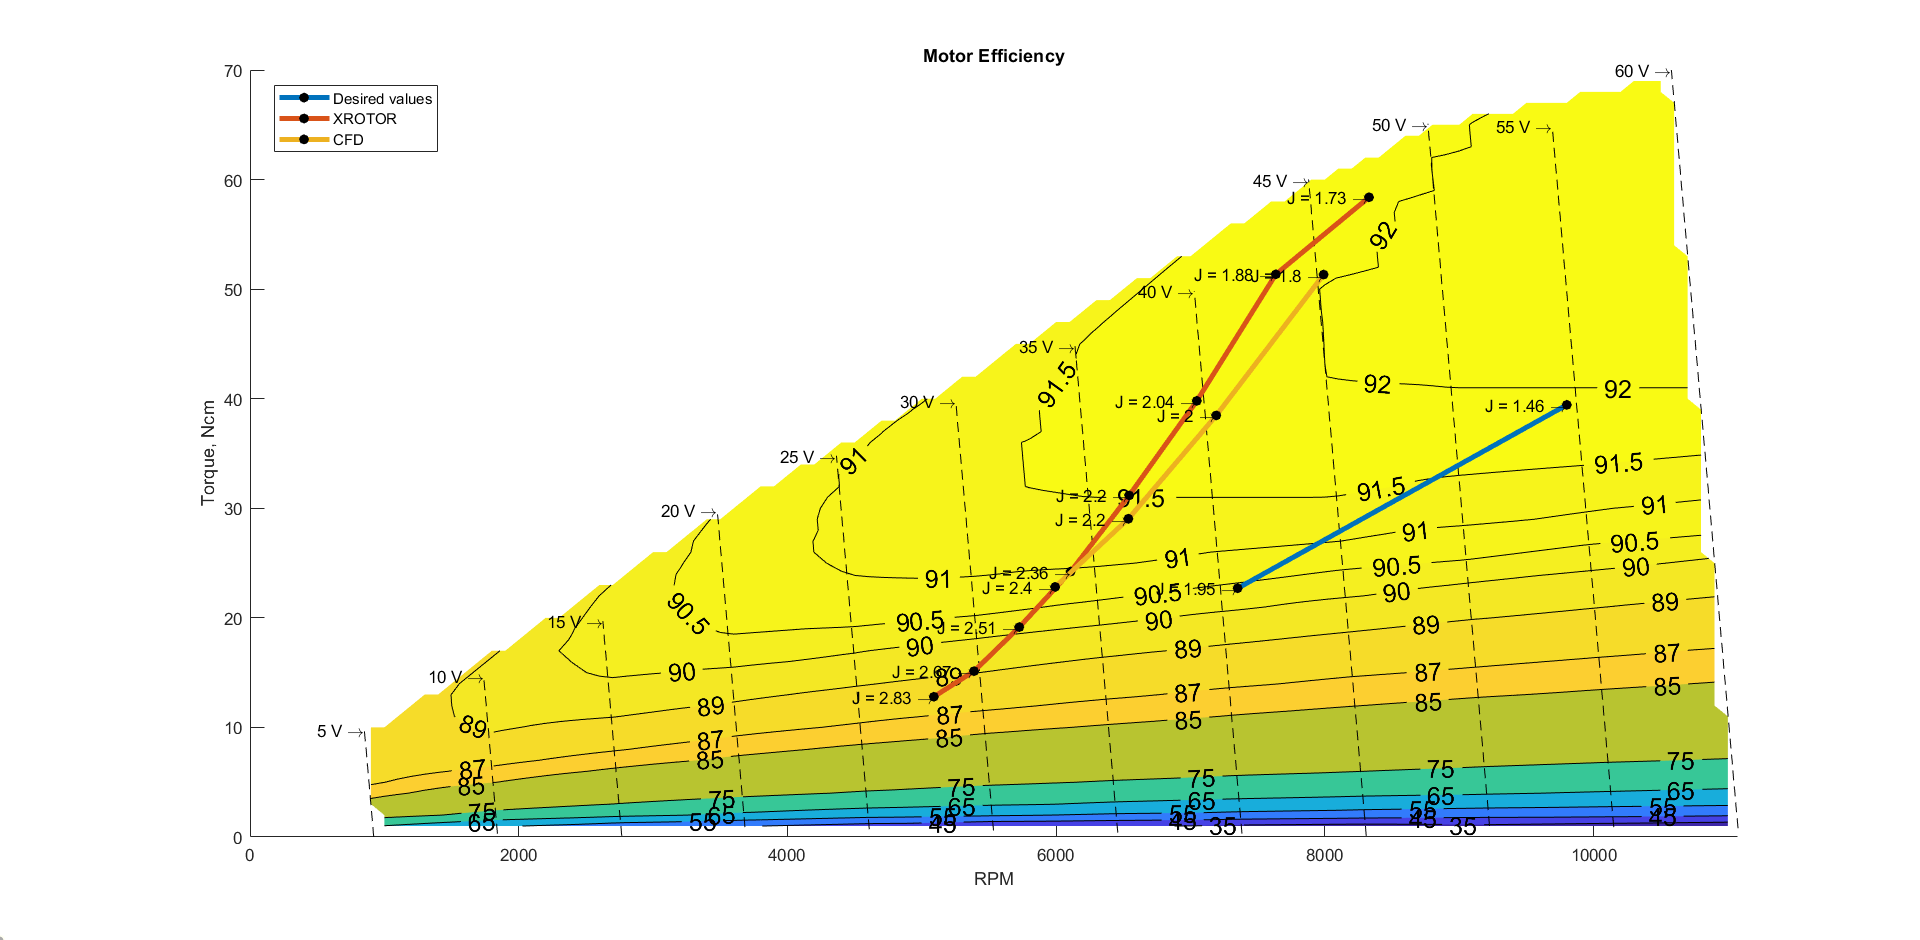
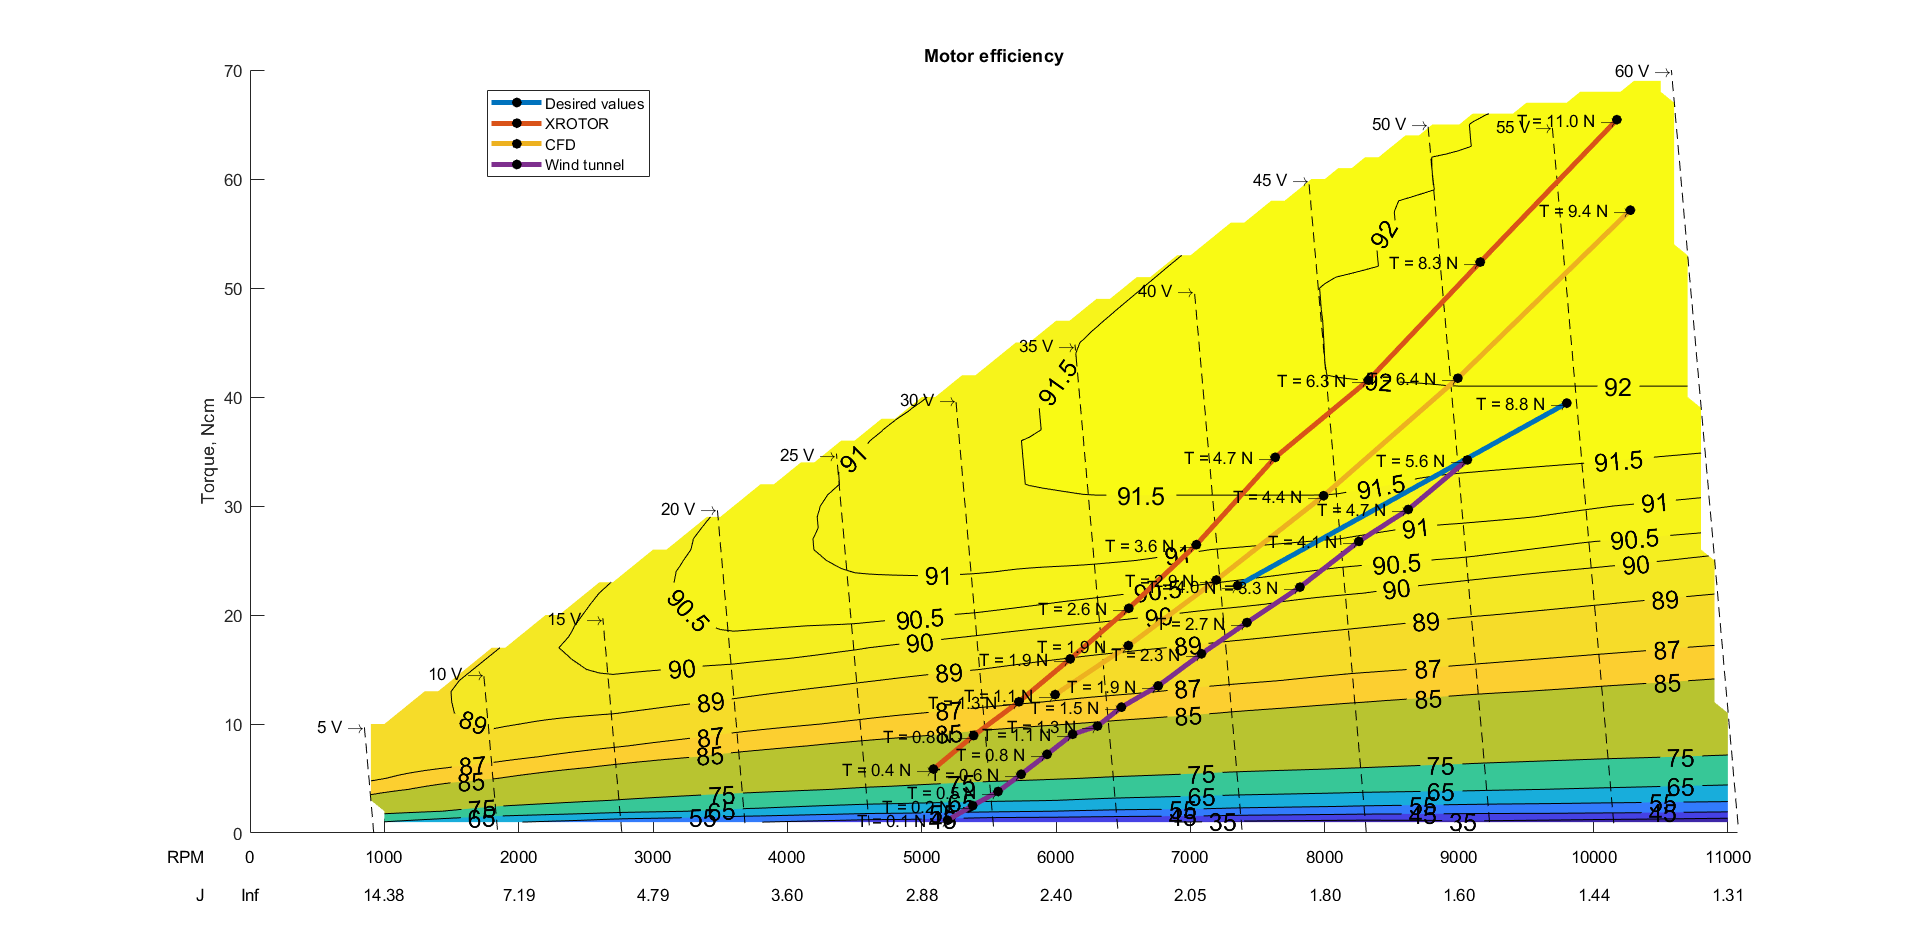
Fix thrust annotations on all plots

diff --git a/plotData.m b/plotData.m
@@ -86,7 +86,7 @@ for i = 1:numel(condition)
     
     for j = 1:size(tempMat,1)
         text(tempMat(j,xIndex),tempMat(j,yIndex),tempMat(j,zIndex)*1.01,...
-            ['T = ',num2str(tempMat(j,1),'%.1f'), ' N \rightarrow'], ...
+            ['T = ',num2str(condition{i}(j,1),'%.1f'), ' N \rightarrow'], ...
             'HorizontalAlignment','right')
     end
     
@@ -185,7 +185,7 @@ for i = 1:numel(condition)
     
     for j = 1:size(tempMat,1)
         text(tempMat(j,xIndex),tempMat(j,yIndex),...
-            ['T = ',num2str(tempMat(j,1),'%.1f'), ' N \rightarrow'], ...
+            ['T = ',num2str(condition{i}(j,1),'%.1f'), ' N \rightarrow'], ...
             'HorizontalAlignment','right')
     end
     
